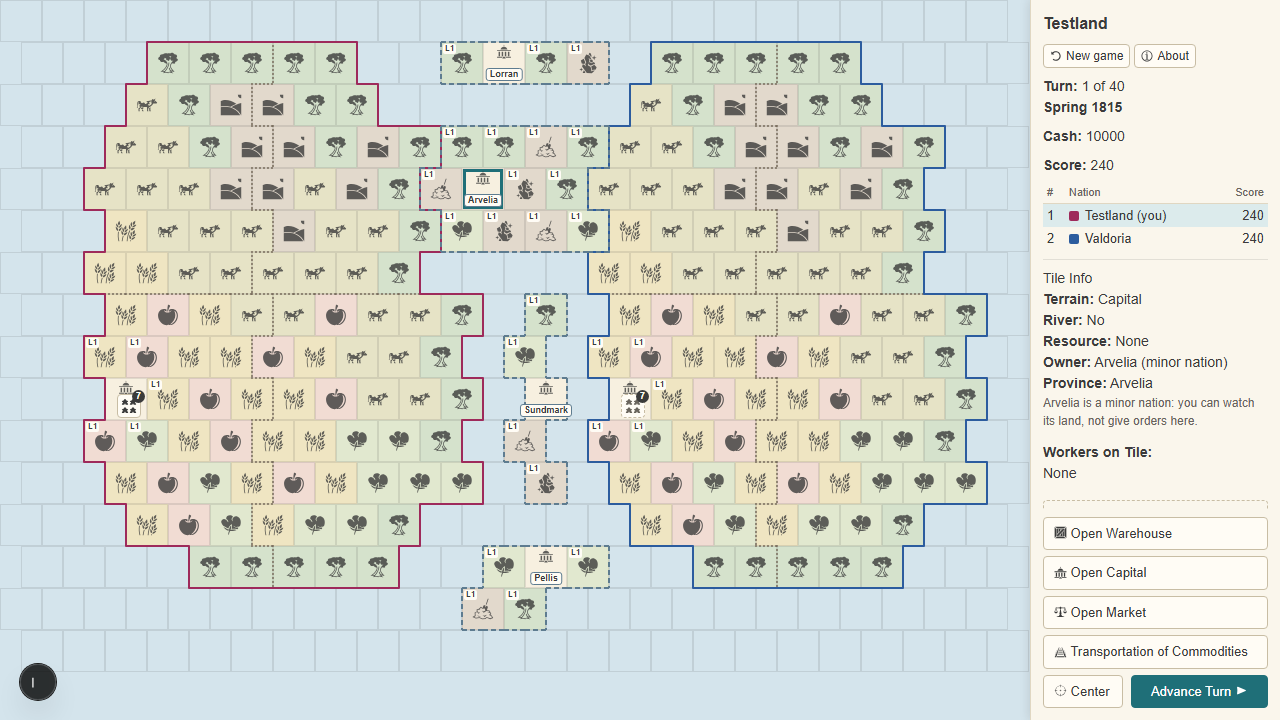
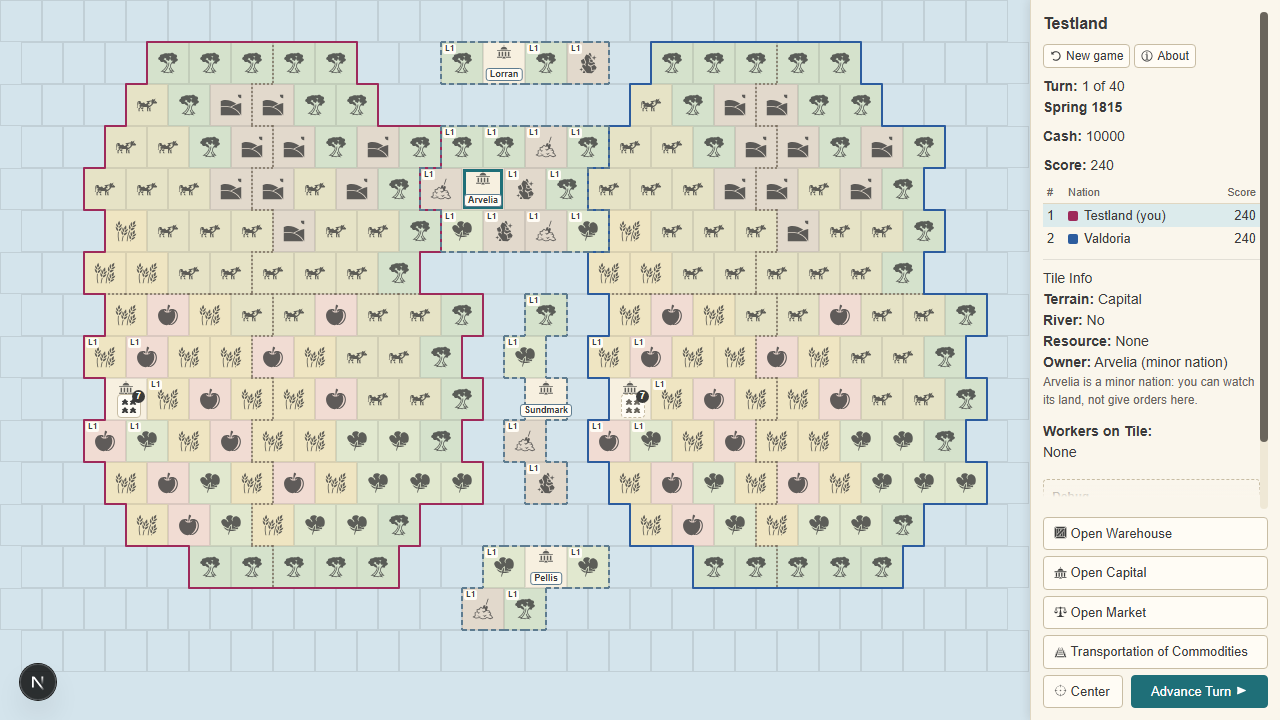
docs(m5): QA fix round journal and evidence, FR-235, minor-tile screenshot retaken

Changed region(s): [[0.8125, 0.0306, 1.0, 0.6722], [0.8438, 0.2444, 0.9062, 0.3361]]

diff --git a/docs/requirements.md b/docs/requirements.md
@@ -372,12 +372,13 @@ each, manual p17; the 24 x 16 map holds four one-province minors, decision cards
 | FR-152 | Intents (decision 5): the state SHALL hold `intents`, empty on a new game. An order that involves a second country (an overture, a grant, a trade policy, an army move or an attack; M6 to M9 add the kinds) stores one intent `{ id, kind, nationId, turn, ... }` when applied and changes nothing of the other country; a turn phase resolves it; after `resolveTurn` no intent of the resolved turn is left. Every phase that resolves intents SHALL take them in `intentOrder(state, turn)`: the Great Powers in founding order (`colorSlot`) rotated by the turn, turn t starting at index (t - 1) mod n (turn 1: nation-1, nation-2; turn 2: nation-2, nation-1; turn 3: nation-1, nation-2), so no nation always goes first and the order does not depend on the order of `state.nations`. Tests: tests/engine/intents.test.ts. | tested (helpers and the drop after resolveTurn: tests/engine/intents.test.ts); order and phase wiring in M6 (no order kind stores an intent and no phase calls `byIntentOrder` before M6) |
 | FR-153 | Map: provinces and minor nations (plan M5): the map overlay SHALL draw (a) the Great Power territory borders as today (FR-097, slot colour); (b) a dotted line in `--color-province-border` between two provinces of the same owner; (c) each minor nation's border in `--color-minor`, dashed, so a minor differs from a Great Power by line shape as well as colour; (d) on each minor capital tile the capital icon and the minor's name as a text label ("Arvelia"); the label may be wider than its tile (review R6: "Sundmark" is about 51 px on a 42 px tile), so it is centred on the capital, inside the tile's height, at most two tiles wide and drawn over the tiles beside it, never clipped or covered by them. A new continent game therefore shows 2 Great Power borders, 8 Great Power provinces and 4 minor names. Tests: tests/ui/provinceMap.test.tsx. | tested (tests/ui/provinceMap.test.tsx, e2e/m5-world.spec.ts); one dotted path per owner of several provinces, the minor border drawn on top where it meets a Great Power's |
 | FR-154 | Colour tokens (remake; FR-097, FR-110 (c)): `styles/tokens.css` SHALL define `--color-minor` and `--color-province-border`; `--color-minor` SHALL differ from each nation colour and from `--color-bad` by ΔE76 ≥ 25, and by ≥ 20 under simulated deuteranopia and protanopia, and SHALL reach 3:1 against the land tile background tokens and the sea tint, since its dashed border runs between minor land and its neighbours (review F4); `--color-province-border` SHALL reach 3:1 against the land tile background tokens (WCAG 2.2 non-text contrast, 1.4.11). The palette scan (FR-086, FR-110 (e)) still passes. Tests: tests/ui/palette.test.ts. | tested (tests/ui/palette.test.ts); `--color-minor` #5e7c90 (slate; review F4 replaced #788098, 2.7:1 on mountains; the margins are thin: 3.06:1, ΔE 31.3, 20.5 under colour blindness), `--color-province-border` #7a6e5e (warm grey), land = `--color-land` and every terrain tint but the sea's |
-| FR-155 | Minor tiles and provinces in the HUD (FR-095, FR-108): a minor's tile SHALL be named as in FR-095 with the minor as owner ("Hardwood forest, timber, level 1, owned by Arvelia"); a click on it or its capital selects it for viewing only: the tile panel shows "Arvelia (minor nation)", the province, the terrain, the resource and level, the note "Arvelia is a minor nation: you can watch its land, not give orders here." (review R7), and no control that builds an order. On a world with provinces the tile panel SHALL show the province of every tile ("Province: Testland South-West"). Great Power tile names (FR-095) are unchanged. Tests: tests/ui/accessibleNames.test.tsx, tests/ui/minorTiles.test.tsx. | tested (tests/ui/accessibleNames.test.tsx, tests/ui/minorTiles.test.tsx, e2e/m5-world.spec.ts); the panel's owner line reads "Owner: Arvelia (minor nation)" |
+| FR-155 | Minor tiles and provinces in the HUD (FR-095, FR-108): a minor's tile SHALL be named as in FR-095 with the minor as owner ("Hardwood forest, timber, level 1, owned by Arvelia"); a click on it or its capital selects it for viewing only: the tile panel shows "Arvelia (minor nation)", the province, the terrain, the resource and level, the note "Arvelia is a minor nation: you can watch its land, not give orders here." (review R7), and no control that builds an order. On a world with provinces the tile panel SHALL show the province of every tile ("Province: Testland South-West"). Great Power tile names (FR-095) are unchanged. Tests: tests/ui/accessibleNames.test.tsx, tests/ui/minorTiles.test.tsx. | tested (tests/ui/accessibleNames.test.tsx, tests/ui/minorTiles.test.tsx, e2e/m5-world.spec.ts); the panel's owner line reads "Owner: Arvelia (minor nation)"; the Province line on a minor's tile replaced by FR-235 (3) |
 | FR-156 | Great Powers only in score and game over (decision 3): on a new continent game the HUD score table and the game-over screen SHALL list exactly the 2 Great Powers (FR-106); `scoreTable` and `state.gameOver.scores` hold 2 entries. Tests: tests/ui/watchNation.test.tsx, tests/engine/minorNations.test.ts. | tested (engine: tests/engine/minorNations.test.ts, `scoreTable` and `gameOver.scores` hold 2 entries; HUD and game-over screen: tests/ui/watchNation.test.tsx, e2e/m5-world.spec.ts) |
 | FR-157 | The continent plays (plan M5): from `newGame({ seed, world: "continent" })` for seeds 1 to 4, 40 turns resolved headless with nation 2 played by the current scripted player and nation 1 idle SHALL be played on the continent (the final state has `worldId` "continent", 4 minor nations and 12 provinces; review F1), refuse no order, keep the test invariants (`invariantViolations`) and the world invariants (`worldViolations`: every land tile and its province name each other, a tile's `ownerNationId` is its province's Great Power owner or absent for a minor, the minor nations, provinces and minor tiles stay as at the start, the diplomacy pairs stay the same and no intent is left; review E3) after every turn, leave no worker sick or starved (`workers-fed`), give a deep-equal game for the same seed, and give nation 2 at turn 40 the same score as the same seed's game on two-islands (review F2). Tests: tests/engine/continentScore.test.ts. | tested (tests/engine/continentScore.test.ts); nation 2 at turn 40 scores 1493, 1496, 1490, 1476 (seeds 1 to 4), asserted equal to two-islands |
 | FR-158 | The seams are neutral (decisions 1 to 6): for seeds 1 to 4, 40 turns with nation 2 played by the frozen M4 player (`tests/engine/m4ScriptedPlayer.ts`) and nation 1 idle, and again with both nations played by it (review R3: nation 1's land is the one next to Arvelia), SHALL give both nations, every turn, the same score, treasury, warehouse, tile levels and rail links on `"continent"` (world market, FR-182) as on `"two-islands"`, with as many refused orders, each game checked to be on the world it names (review F1): the minors, provinces and diplomacy state change nothing an M4 nation does. FR-215 replaces this row in M8 (the start army's upkeep changes the treasury). Tests: tests/engine/continentScore.test.ts. | tested (tests/engine/continentScore.test.ts) |
 | FR-159 | v1 baselines unchanged (decision 1): on `"two-islands"` these tests SHALL pass with no change to their assertions or numbers: tests/engine/scriptedScore.test.ts (margin 1.5, lowest measured 1.55, zero refused orders, rail invariants, turn-1 plans), twoNations.test.ts (the turn-1 trade orders of `newGame(11)`), startWorld.test.ts, newGame.test.ts, secondNation.test.ts, determinism.test.ts, railSections.test.ts and scriptedRail.test.ts. A test that needs a setup line names the world (`world: "two-islands"`); a test whose assertion would have to change shows a v1 behaviour change, which is a bug. Tests: as named. | tested (the eight files named, unchanged since main c378816) |
 | FR-160 | Store, UI and e2e on the new default (decision 1): UI and store tests that pin two-island facts from the store's default game (for example tests/ui/territory.test.tsx: 2 borders, slots 1 and 2) SHALL start the store with `startNewGame({ world: "two-islands" })`; the store tests that hold on both worlds (nation ids, 24 x 16, an `orderLog` of 2 per turn, `computerOrders` equal to exactly `{ "nation-2": ... }`) run on the continent default unchanged. The e2e smoke suite SHALL pass on the continent default with its tile names unchanged (capitals `2-9` and `14-9`, tiles `3-9`, `3-8`, `5-2`, `2-7`), and a new e2e/m5-world.spec.ts SHALL see on a new game the 4 minor names on the map, "Province: Testland South-West" in the tile panel after a click on `3-9`, and 2 rows in the score table. Every overlay flag that M6 to M9 add is reset by `startNewGame` (`store/gameSlice.ts`). Tests: as named. | tested (e2e/m5-world.spec.ts; the guard in tests/store/computerNations.test.ts sets every store key but `game` and the camera (`cameraX`, `cameraY`, `cameraMoves`, kept on purpose) to another value and requires its initial value after `startNewGame`, whatever its name or type (review F3); e2e/islands, look and cursor-icons specs moved to the continent, see the journal); no UI test built its game from the store default, so none needed `world: "two-islands"` |
+| FR-235 | QA fix round (Nathan's M5 QA screenshots `docs/journal/m5-qa-minor-tile.png` and `m5-qa-turn-4.png`, 2026-11-13), at 1280 x 720: (1) WHEN the HUD's information is taller than its scroll area (`.hud-content`) THEN the scroll area SHALL draw its own thin scrollbar (at most 10 px wide, thumb `--color-ink-muted`, track `--color-surface-sunken`, its gutter kept so the text does not shift), and scrolling it SHALL reach the end of the News and the whole Debug box while the action buttons (Open Warehouse to Advance Turn) stay pinned at the bottom; (2) WHILE more content lies below, the last pixels of the scroll area above the action buttons SHALL show only the panel surface (the content fades into `--color-surface`), so no cut box edge (the Debug box's dashed top in the screenshot) is drawn there, and a click there SHALL still reach the content; scrolled to the end, the Debug box SHALL be whole; (3) WHEN the selected tile belongs to a minor nation THEN the tile panel SHALL omit the Province line (a minor is one province named after it, so "Owner: Arvelia (minor nation)" was followed by "Province: Arvelia"); a Great Power's tile keeps it (FR-155), also on a minor's province a Great Power has taken; (4) the About panel SHALL hold a map legend, a list named "Map legend" of three rows, each with a small inline SVG sample drawn with the map's own line class (`MapView.module.css`) and colour token: "Solid line: Great Power border" (the viewed nation's colour), "Dashed slate line: minor nation border" (`--color-minor`), "Dotted line: province border" (`--color-province-border`). Tests: e2e/m5-hud-scroll.spec.ts (1, 2), tests/ui/minorTiles.test.tsx (3), tests/ui/about.test.tsx (4). | tested (e2e/m5-hud-scroll.spec.ts, tests/ui/minorTiles.test.tsx, tests/ui/about.test.tsx, e2e/m5-world.spec.ts); replaces the Province line of FR-155 on a minor's tile; the HUD's height and overflow chain was not broken (journal, QA fix round); Firefox and WebKit not run (no Playwright build installed) |
 
 ## M6 Diplomacy
 

diff --git a/docs/journal.md b/docs/journal.md
@@ -16,7 +16,7 @@
   after it. The progress page files now live on these branches too (copied from the docs branch).
 - 2026-11-13 M5 on `claude/m5-world`: engine half (FR-144 to FR-152, FR-156 engine, FR-157 to FR-159) and UI half
   (FR-153 to FR-156, FR-160) tested; the app plays the continent. Milestone review done; its fix round (19 findings)
-  is committed. Next: the re-review of the fix delta, then card Q22 (the continent's tilt toward nation 1).
+  and a QA fix round (FR-235) are committed. Next: the re-review of the fix delta, then card Q22 (the continent's tilt).
 
 Carried forward:
 - Deferred: river ports and the depot-on-port rule (rules 04); University fees; the power plant.
@@ -372,3 +372,27 @@ so nation 1's land next to Arvelia (9-4 no longer a port site) changes nothing a
 
 How to see it in the app: `npm run dev`; the minors' dashed borders and name-tag frames are a slightly darker
 blue-grey slate; nothing else changes on a new game (the E1 and R5 rules only matter once land changes hands, M9).
+
+## 2026-11-13 M5 World and seams for v2, QA fix round (FR-235)
+
+Size: S (four HUD fixes from Nathan's QA screenshots). One agent (Opus 5.5, xhigh, no subagents, no advisor call).
+1. Scroll: the height chain was sound (`.hud-content`: flex child, `min-height: 0`, `overflow-y: auto`; 497 px tall, 572 px
+   of content with Arvelia selected; the wheel scrolls it 0 to 75 px). The QA shots showed no scrollbar because Playwright
+   starts Chromium with `--hide-scrollbars`; without that flag the old panel drew Chromium's default 15 px grey one. Missing
+   was a scrollbar of the panel's own that overlay-scrollbar systems (macOS, touch) also draw. Fix: `::-webkit-scrollbar`
+   8 px in tokens (Chromium, Safari), `scrollbar-width`/`-color` for Firefox only (trap: Chromium drops the WebKit rules once
+   those are set), `scrollbar-gutter: stable`. 2. A sticky `::after` fades the content into the surface over the last 24 px
+   (12 px opaque, clicks pass through); at the end it sits below the Debug box. 3. No Province line on a minor's tile.
+   4. "Map legend" in About, samples drawn with the map's `MapView.module.css` classes and tokens.
+Not verified: Firefox and WebKit (no Playwright build installed; the `@supports` block is in the built CSS); overlay
+scrollbars (Chromium's OverlayScrollbar flag changes nothing headless). Screenshot `docs/journal/m5-qa-minor-tile.png`
+retaken with scrollbars drawn (`.gate/qa-fix-shot.mjs`, not committed): no Province line, thin scrollbar, Debug box fading.
+
+| Claim | Command | Result (quoted) |
+|---|---|---|
+| Red, items 3 and 4 | `npx vitest run tests/ui/about.test.tsx tests/ui/minorTiles.test.tsx` before the source change | `Tests 5 failed \| 7 passed (12)`: no list "Map legend"; `minorWithProvince: [ …(26) ]` |
+| Red, items 1 and 2 | `PORT=3160 PW_REUSE_SERVER=1 npx playwright test e2e/m5-hud-scroll.spec.ts` on the old globals.css | `2 failed`: `"thin": false, "thumbPainted": false, "trackPainted": false`; `"notSurface": 84` |
+| Green, items 1 to 4 | the same three files and `e2e/m5-world.spec.ts` (now no Province line on 10-3) | `Tests 30 passed (30)` (with palette.test.ts); `2 passed (8.5s)`; full e2e below |
+| Unit tests | `npm test` | `Test Files 68 passed (68)`, `Tests 976 passed (976)` (+5 on 971); 0 "not wrapped in act" |
+| Lint, types, build | `npm run lint`; `npx tsc --noEmit`; `npm run build` | `✖ 4 problems (0 errors, 4 warnings)` (the 3 of main plus `.gate/dist.js`); exit 0, no output; `✓ Compiled successfully in 3.8s`, `✓ Generating static pages (4/4)` |
+| e2e smoke | `PORT=3160 npx playwright test --workers=1 --reporter=line` | `1 skipped`, `24 passed (1.2m)` (+2: e2e/m5-hud-scroll.spec.ts) |
